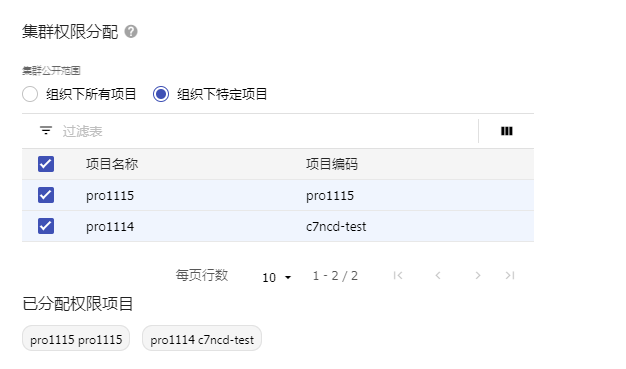
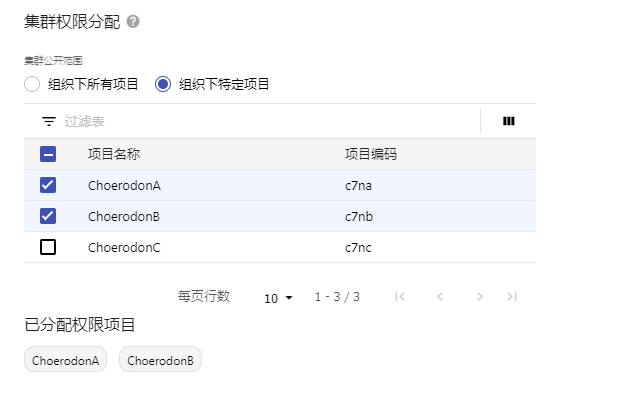
[FIX] Replace the informal image

diff --git a/content/docs/user-guide/application-management/application-market.md b/content/docs/user-guide/application-management/application-market.md
@@ -10,7 +10,7 @@ weight = 5
 
 - **菜单层次**：项目层
 - **菜单路径**：应用管理 > 应用市场
-- **默认角色**：项目所有者、项目成员、部署管理员
+- **默认角色**：项目所有者
 
 <h2>应用市场</h2>
 
